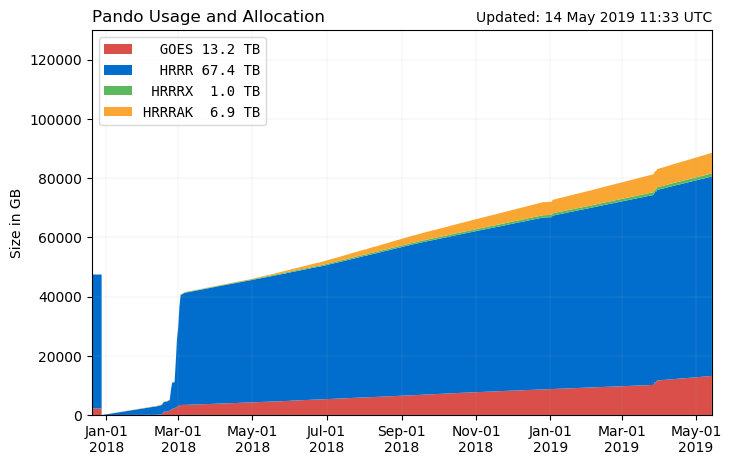
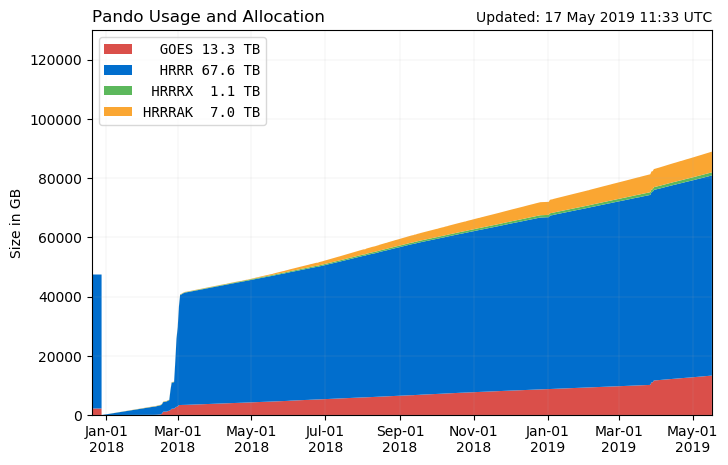
updates

diff --git a/tracer.html b/tracer.html
@@ -66,6 +66,7 @@
 			<h3>namelist.input</h3>
 			<p><b style="color:green">namelist.input</b> contains all 
 			the WRF user options. 
+			<p>Here's a copy of my complete <a href='https://github.com/blaylockbk/Ute-WRF-User-Group/blob/master/Blaylock/add_tracer_plumes/namelist.input.bkb.tracer'>namelist.input</a> file.
 			<p>In the <b>&dynamics</b> section, add <b>tracer_opt</b>. 
 			This is the flag that turns the tracer option on.
 			<p>The below example shows tracer_opt set to "2" for domain one 
@@ -85,7 +86,7 @@
 			<p><b style="color:green">Registry/Registry.EM</b> 
 			defines output variables in WRF.
 			<p>Here's a copy of my complete 
-			<a href="http://home.chpc.utah.edu/~u0553130/WRF_mods/Registry.EM">Registry.EM</a> file.
+			<a href="https://github.com/blaylockbk/Ute-WRF-User-Group/blob/master/Blaylock/add_tracer_plumes/Registry.EM.bkb.tracer">Registry.EM</a> file.
 			<p>Below are the the changes I made to Registry.EM...
 				(Note: don't remove the tr17_* lines. I can't get WRF to 
 				compile when I remove those. But adding to the list is fine.)
@@ -115,7 +116,7 @@ package   tracer_test1  tracer_opt==2       -             tracer:tr17_1,tr17_2,t
 			<h3>module_initialize_real.F</h3>
 			<p><b style="color:green">WRFV3/dyn_em/module_initialize_real.F</b> contains information on how to initialize WRF in the real.exe executable.
 			Making these changes will initialize our tracer plume in WRF
-			<p>Here's a copy of my complete <a href="http://home.chpc.utah.edu/~u0553130/WRF_mods/module_initialize_real.F">module_initialize_real.F</a> file.
+			<p>Here's a copy of my complete <a href="https://github.com/blaylockbk/Ute-WRF-User-Group/blob/master/Blaylock/add_tracer_plumes/module_initialize_real.F.bkb.tracer">module_initialize_real.F</a> file.
 			<p>Updates, if any here: <a href="https://github.com/blaylockbk/Ute_WRF/blob/master/modificaions/module_initialize_real.F.bkb.tracer"><i class="fab fa-github"></i> Github.</a>
 			<p>The changes made to the original WRF code, starting on line 3372 are shown below...
 			<textarea disabled>
@@ -195,7 +196,7 @@ package   tracer_test1  tracer_opt==2       -             tracer:tr17_1,tr17_2,t
 			<h3>solve_em.F</h3>
 			<p><b style="color:green">WRFV3/dyn_em/solve_em.F</b> contains information on how to create a continuous plume.
 			Making these changes will continue the plume each timestep in WRF.
-			<p>Here's a copy of my complete <a href="http://home.chpc.utah.edu/~u0553130/WRF_mods/solve_em.F">solve_em.F</a> file.
+			<p>Here's a copy of my complete <a href="https://github.com/blaylockbk/Ute-WRF-User-Group/blob/master/Blaylock/add_tracer_plumes/solve_em.F.bkb.tracer">solve_em.F</a> file.
 			<p>Updates, if any here: <a href="https://github.com/blaylockbk/Ute_WRF/blob/master/modificaions/solve_em.F.bkb.tracer"><i class="fab fa-github"></i> Github.</a>
 			<p>The changes made to the original WRF code, starting on line 265 are shown below...
 			<p>This is very similar to the modifications made in module_initialize_real.F, but notice the KEY change from <b>its</b> to <b><i>ips</i></b> in the IF statement...
@@ -254,7 +255,7 @@ package   tracer_test1  tracer_opt==2       -             tracer:tr17_1,tr17_2,t
 			<p>This will continue the tracer plume every time step.
 			<p style="color:red">Note: I've realized that this method artificially removes tracers. Tracers transported back 
 			into the source location is automatically reset to 1. To fix this you'll have to add to the value already in the gird box,
-			so something like this: <i>tracer(225,1,198,P_S_SLV) = tracer(225,1,198,P_S_SLV) + 1.</i>
+			so something like this: <i>tracer(225,1,198,P_S_SLV) = tracer(225,1,198,P_S_SLV) + 1</i>. Or mor generally <i>tracer(i,1,j,P_S_SLV)= tracer(i,1,j,P_S_SLV)+1</i>.  
 			<hr>
 			<h3>Initlize Tracers after WRF begins</h3>
 			<p> It is possible to create a new "smoke puff" at specific intervals
@@ -332,11 +333,11 @@ package   tracer_test1  tracer_opt==2       -             tracer:tr17_1,tr17_2,t
 				on <a href="https://github.com/blaylockbk/pyPlots_v2/tree/master/WRF-Tracers"><i class="fab fa-github"></i> GitHub</a>.
 			<br><br>
 			<video id="videoclip"  style="height:50vh;" autoplay controls loop title="Time Lapse">
-			<source id="mp4video" src="http://home.chpc.utah.edu/~u0553130/MS/planeview_tracercomposite/urban_trees/NorthSouthTracers.mp4" type="video/mp4"  />
+			<source id="mp4video" src="http://home.chpc.utah.edu/~u0553130/MS/planeview_tracercomposite/NorthSouthTracers.mp4" type="video/mp4"/>
 			</video>
 			<br><br>
 			<video id="videoclip"  style="width:80%;" autoplay controls loop title="Time Lapse">
-			<source id="mp4video" src="http://home.chpc.utah.edu/~u0553130/MS/crosssection/spinup/restart_plum_18Jun1700/plumes_crosssection.mp4" type="video/mp4"  />
+			<source id="mp4video" src="http://home.chpc.utah.edu/~u0553130/MS/crosssection/plumes_crosssection.mp4" type="video/mp4"  />
 			</video>
 		</div>
 

diff --git a/Pando_archive/index.html b/Pando_archive/index.html
@@ -46,7 +46,7 @@
 
 <br>
   <script src='./js/pando_status.js'></script>
-    <center><font size=12> 88.6 TB out of 130 TB</font>
+    <center><font size=12> 89.0 TB out of 130 TB</font>
     <div class="progress" style="max-width:700px;height:35px">
             <div class="progress-bar progress-bar-danger" role="progressbar" style="width:10%">
               <font size=4></font>
@@ -73,9 +73,9 @@
         <th style='text-align:center'>Estimated Full Date</th>
       </tr>
       <tr>
-        <td>124.16 GB</td>
-        <td>333</td>
-        <td>11 April 2020</td>
+        <td>125.44 GB</td>
+        <td>327</td>
+        <td>08 April 2020</td>
       </tr>
     </table>
     <table class="table table-bordered" style='text-align:center;max-width:700px'>
@@ -86,18 +86,18 @@
       </tr>
       <tr>
         <th style='text-align:right'>ABI-L2-MCMIPC</th>
-        <td>16.04</td>
-        <td>16.52</td>
+        <td>16.69</td>
+        <td>16.07</td>
       </tr>
       <tr>
         <th style='text-align:right'>GLM-L2-LCFA</th>
-        <td>1.64</td>
-        <td>0.85</td>
+        <td>1.84</td>
+        <td>0.98</td>
       </tr>
       <tr>
         <th style='text-align:right'>Total</th>
-        <th style='text-align:center'>17.68 GB</th>
-        <th style='text-align:center'>17.37 GB</th>
+        <th style='text-align:center'>18.53 GB</th>
+        <th style='text-align:center'>17.05 GB</th>
       </tr>
     </table>
 
@@ -111,13 +111,13 @@
       </tr>
       <tr>
         <th style='text-align:right'>sfc</th>
-        <td>58.75</td>
-        <td>3.10</td>
-        <td>18.62</td>
+        <td>59.38</td>
+        <td>3.33</td>
+        <td>18.35</td>
       </tr>
       <tr>
         <th style='text-align:right'>prs</th>
-        <td>8.64</td>
+        <td>8.80</td>
         <td>0.00</td>
         <td>0.00</td>
       </tr>
@@ -129,9 +129,9 @@
       </tr>
       <tr>
         <th style='text-align:right'>Total</th>
-        <th style='text-align:center'>67.39 GB</th>
-        <th style='text-align:center'>3.10 GB</th>
-        <th style='text-align:center'>18.62 GB</th>
+        <th style='text-align:center'>68.17 GB</th>
+        <th style='text-align:center'>3.33 GB</th>
+        <th style='text-align:center'>18.35 GB</th>
       </tr>
     </table>
 
@@ -142,7 +142,7 @@
     <a href="https://github.com/blaylockbk/Web-Homepage/blob/master/Pando_archive/index.html"><i class="fab fa-github"></i> Page</a>
     <a href="https://github.com/blaylockbk/Web-Homepage/blob/master/Pando_archive/daily_usage.py"><i class="fab fa-github"></i> Plot</a>
     <br>
-    Last Updated: 14 May 2019 11:33 UTC
+    Last Updated: 17 May 2019 11:33 UTC
   </div>
 
 </div>

diff --git a/hrrr_fires.html b/hrrr_fires.html
@@ -110,7 +110,7 @@ This page is created dynamically in the scirpt /oper/HRRR_fires/manager.py
     <p><a class='btn btn-default' style='width:100%' href="https://rmgsc.cr.usgs.gov/outgoing/GeoMAC/ActiveFirePerimeters.kml" target="_blank">Active Fire KMZ USGS <i class="fa fa-external-link-alt"></i></a>
     <p><a class='btn btn-default' style='width:100%' href="https://earthdata.nasa.gov/earth-observation-data/near-real-time/firms/active-fire-data" target="_blank">Active Fire KMZ EarthData <i class="fa fa-external-link-alt"></i></a>
     <p><a class='btn btn-success' style='width:100%' href="https://rmgsc.cr.usgs.gov/outgoing/GeoMAC/current_year_fire_data/current_year_all_states/" target="_blank">Active Fire Perimeter ShapeFile <i class="fa fa-external-link-alt"></i></a>
-    <p><a class='btn btn-success' style='width:100%' href="https://fsapps.nwcg.gov/afm/data/lg_fire/lg_fire_info_2019-05-14.txt" target="_blank">Active Fire Text <i class="fa fa-external-link-alt"></i></a>
+    <p><a class='btn btn-success' style='width:100%' href="https://fsapps.nwcg.gov/afm/data/lg_fire/lg_fire_info_2019-05-17.txt" target="_blank">Active Fire Text <i class="fa fa-external-link-alt"></i></a>
     </div>
 </center>
 </div>
